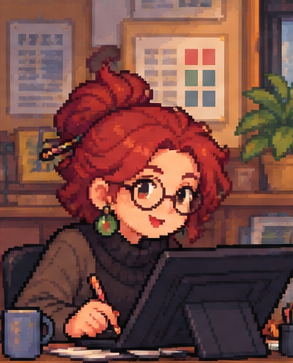
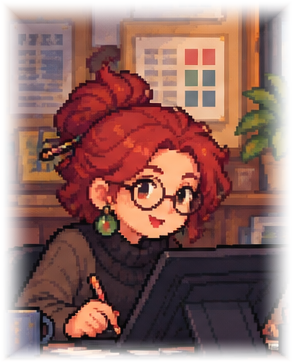
Fade character portrait edges into dialogue scene

Changed region(s): [[0.0, 0.0, 1.0, 1.0]]

diff --git a/app.js b/app.js
@@ -45,7 +45,7 @@ function mediaArt(choice){if(choice.image)return `<img src="${esc(choice.image)}
  const subject=/급식|메뉴/.test(choice.title)?'🍽':/휴대전화|스마트폰|앱/.test(choice.title)?'📱':/자전거|헬멧/.test(choice.title)?'🚲':/하늘|먼지/.test(choice.title)?'☁':/책/.test(choice.title)?'📚':/텀블러|컵/.test(choice.title)?'🥤':'🌿';return `<div class="mini-scene ${kind==='photo'?'photo':'drawing'}"><span>${subject}</span><small>${esc(choice.title)}</small></div>`}
 function storyFor(key){
  const p=key.split(':'),kind=p[0],i=Number(p[1]);
- const owner={name:'신문사 사장',face:'🧑🏻💼',portrait:'assets/story-characters/owner.png',role:'신문사 사장'},reporter={name:'취재 기자',face:'🧑🏻💻',portrait:'assets/story-characters/reporter.png',role:'취재 기자'},designer={name:'디자인 팀장',face:'👩🏻🎨',portrait:'assets/story-characters/designer.png',role:'디자인 팀장'},fact={name:'팩트체크 팀장',face:'🕵🏻♀',portrait:'assets/story-characters/fact-checker.png',role:'팩트체크 팀장'},reader={name:'독자',face:'👩🏻',portrait:'assets/story-characters/reader.png',role:'오늘신문 독자'};
+ const owner={name:'신문사 사장',face:'🧑🏻💼',portrait:'assets/story-characters/owner.png?v=fade-20261027-6',role:'신문사 사장'},reporter={name:'취재 기자',face:'🧑🏻💻',portrait:'assets/story-characters/reporter.png?v=fade-20261027-6',role:'취재 기자'},designer={name:'디자인 팀장',face:'👩🏻🎨',portrait:'assets/story-characters/designer.png?v=fade-20261027-6',role:'디자인 팀장'},fact={name:'팩트체크 팀장',face:'🕵🏻♀',portrait:'assets/story-characters/fact-checker.png?v=fade-20261027-6',role:'팩트체크 팀장'},reader={name:'독자',face:'👩🏻',portrait:'assets/story-characters/reader.png?v=fade-20261027-6',role:'오늘신문 독자'};
  if(kind==='plan'&&i===0)return [[owner,'드디어 왔군! 우리 신문사의 새로운 편집장!'],[owner,'사실 우리 신문사는 지금 폐간 직전이야. 독자들이 우리 신문을 읽지 않거든…….'],[owner,'하지만 자네가 좋은 기사를 만들어 준다면 다시 유명한 신문사가 될 수 있을 거야!'],[reporter,'사장님! 긴급 제보입니다!'],[reporter,'겨울철 노로바이러스 식중독이 문제래요! 사람들이 겨울에는 음식이 잘 상하지 않는다고 방심하고 있대요!'],[owner,'좋아! 이번 특집 기사로 독자들의 관심을 되찾자!']];
  if(kind==='plan'&&i===1)return [[reporter,'좋아요. 겨울철 노로바이러스 식중독을 다루기로 했어요. 이번 기사를 읽은 독자들이 무엇을 알게 되면 좋을까요?'],[designer,'독자를 겁주는 데서 끝나지 않고, 정확한 위험 정보와 예방법을 알려 주면 도움이 되겠어요.']];
  if(kind==='plan'&&i===2)return [[reporter,'기사의 목적이 정해졌어요. 독자가 내용을 쉽게 따라오도록 어떤 순서로 전하면 좋을까요?'],[designer,'먼저 유행과 위험을 알리고, 감염 경로와 증상을 설명한 뒤 예방법으로 이어가면 이해하기 쉬워요.']];

diff --git a/style.css b/style.css
@@ -115,7 +115,7 @@ h1,h2,h3{color:#f0f5ff}.muted,.stat-card small{color:#aebcda}footer{color:#9aa9c
 .story-portrait{position:relative;display:flex;flex-direction:column;align-items:center;justify-content:flex-end;gap:5px;width:min(54%,310px);height:min(45vh,390px);min-height:205px;margin-top:18px;filter:drop-shadow(0 10px 0 #070c18aa);animation:story-character-in .38s cubic-bezier(.2,.8,.3,1.1) both}
 .story-portrait:before{content:"";position:absolute;z-index:-1;bottom:0;width:100%;height:86%;border:2px solid #9aafe4;border-bottom:0;border-radius:48% 48% 8px 8px;background:linear-gradient(145deg,#526b9c,#252f50 72%);box-shadow:inset 0 0 35px #a9cbff22,0 0 28px #79b7ff26}
 .story-portrait span{font-size:clamp(108px,23vw,190px);line-height:1;transform:translateY(-5px);filter:drop-shadow(0 5px 0 #11182a);image-rendering:pixelated}
-.story-portrait.has-portrait{display:block;overflow:hidden;border:1px solid #d9c7a5;border-radius:9px 9px 2px 2px;background:#211a20;box-shadow:0 10px 22px #050914aa;filter:drop-shadow(0 8px 0 #070c18aa)}
+.story-portrait.has-portrait{display:block;overflow:visible;border:0;border-radius:0;background:transparent;box-shadow:none;filter:none}
 .story-portrait.has-portrait:before{display:none}
 .story-portrait.has-portrait img{display:block;width:100%;height:100%;object-fit:cover;object-position:center top;image-rendering:pixelated}
 .story-portrait.has-portrait small{bottom:6px;left:50%;transform:translateX(-50%);border-color:#fff0c4;background:#172440ed}

diff --git a/index.html b/index.html
@@ -1,6 +1,6 @@
 <!doctype html>
-<html lang="ko"><head><meta charset="utf-8"><meta name="viewport" content="width=device-width,initial-scale=1,viewport-fit=cover"><meta name="theme-color" content="#111a30"><title>오늘신문: 신입 편집장의 첫 번째 특종</title><link rel="stylesheet" href="./style.css?v=characters-20261027-5"></head>
+<html lang="ko"><head><meta charset="utf-8"><meta name="viewport" content="width=device-width,initial-scale=1,viewport-fit=cover"><meta name="theme-color" content="#111a30"><title>오늘신문: 신입 편집장의 첫 번째 특종</title><link rel="stylesheet" href="./style.css?v=fade-20261027-6"></head>
 <body>
 <div id="app"><header class="topbar"><div class="brand"><span class="brand-icon">📰</span><div><small>중학교 국어 · 신입 편집장의 첫 특종</small><strong>오늘신문</strong></div></div><button class="sound" id="sound" aria-label="효과음 끄기">🔊</button></header><main id="screen"></main><footer>조회수 100만 챌린지 · 정확한 자료로 세상을 바꿔요!</footer></div>
 <div id="overlay" class="overlay hidden" role="dialog" aria-modal="true"><div id="overlay-content" class="overlay-card"></div></div>
-<script src="./static-api.js"></script><script src="./app.js?v=characters-20261027-5"></script></body></html>
+<script src="./static-api.js"></script><script src="./app.js?v=fade-20261027-6"></script></body></html>
